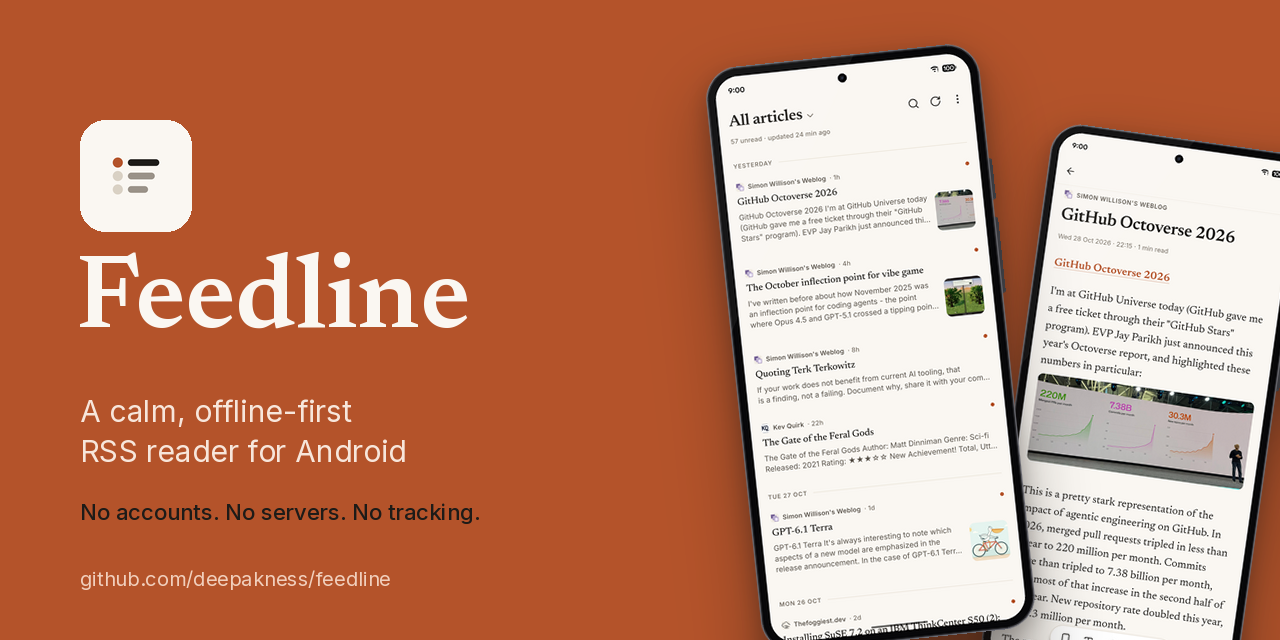
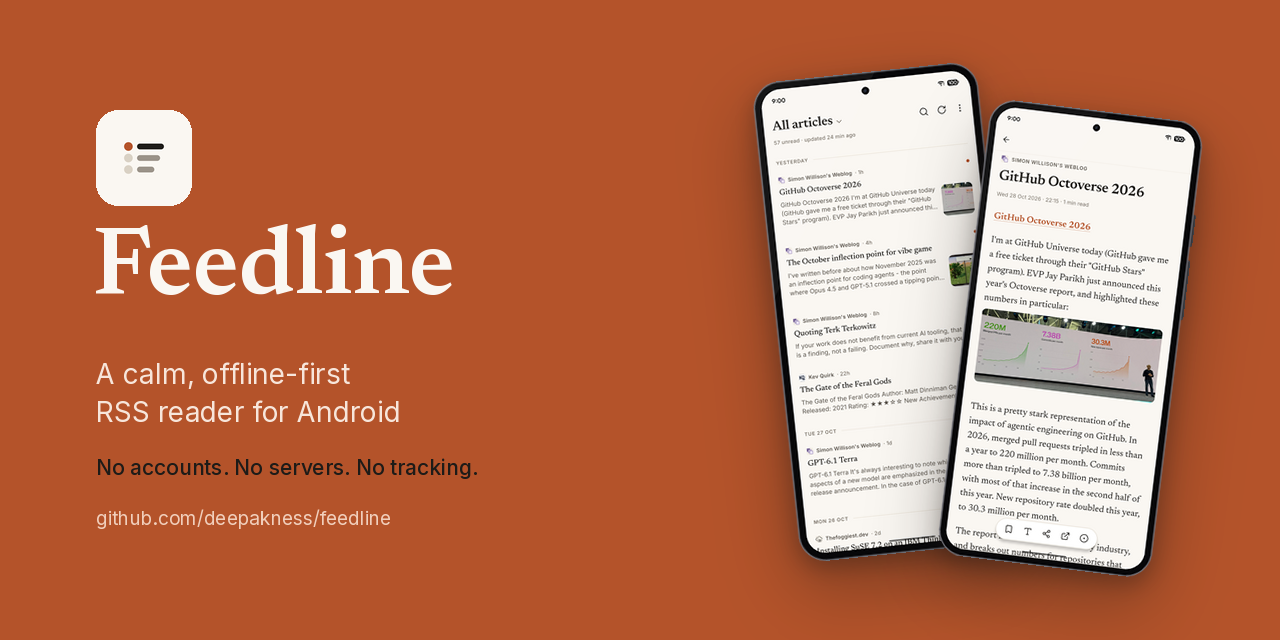
Social preview: padding on all sides

diff --git a/scripts/make-social-preview.py b/scripts/make-social-preview.py
@@ -73,17 +73,28 @@ def place(img, ph, x, y, angle=0, shadow=70):
 
 def text(d, xy, s, f, fill, anchor='la'): d.text(xy, s, font=f, fill=fill, anchor=anchor)
 
-# Terracotta background, tilted phones.
+# Terracotta background, tilted phones, everything inside a PAD margin.
+PAD = 72
+
 def v4():
     img = Image.new('RGB', (W, H), ACC); d = ImageDraw.Draw(img)
-    icon(img, 80, 120, 112, border=None)
-    text(d, (76, 250), 'Feedline', font(SERIF, 104), PAPER)
-    text(d, (80, 392), 'A calm, offline-first', font(REG, 30), '#F7E6DB')
-    text(d, (80, 432), 'RSS reader for Android', font(REG, 30), '#F7E6DB')
-    text(d, (80, 498), 'No accounts. No servers. No tracking.', font(MED, 22), INK)
-    text(d, (80, 566), 'github.com/deepakness/feedline', font(REG, 20), '#F1CFBC')
-    place(img, phone_img('reader', 240), 975, 120, angle=-8, shadow=90)
-    place(img, phone_img('timeline', 256), 700, 40, angle=6, shadow=90)
+    # Text block, vertically centred.
+    top = (H - 420) // 2
+    icon(img, PAD + 24, top, 96, border=None)
+    text(d, (PAD + 20, top + 112), 'Feedline', font(SERIF, 96), PAPER)
+    text(d, (PAD + 24, top + 246), 'A calm, offline-first', font(REG, 28), '#F7E6DB')
+    text(d, (PAD + 24, top + 284), 'RSS reader for Android', font(REG, 28), '#F7E6DB')
+    text(d, (PAD + 24, top + 344), 'No accounts. No servers. No tracking.', font(MED, 21), INK)
+    text(d, (PAD + 24, top + 396), 'github.com/deepakness/feedline', font(REG, 19), '#F1CFBC')
+    # Phones: rotated first, then sized so both fit inside the padding.
+    front = phone_img('reader', 200).rotate(-7, resample=Image.BICUBIC, expand=True)
+    back = phone_img('timeline', 210).rotate(6, resample=Image.BICUBIC, expand=True)
+    fx = W - PAD - front.width
+    fy = H - PAD - front.height + 12
+    bx = fx - back.width + 96
+    by = PAD - 12
+    place(img, back, bx, by, shadow=90)
+    place(img, front, fx, fy, shadow=90)
     return img
 
 v4().save(f'{root}/.github/social-preview.png', optimize=True)
